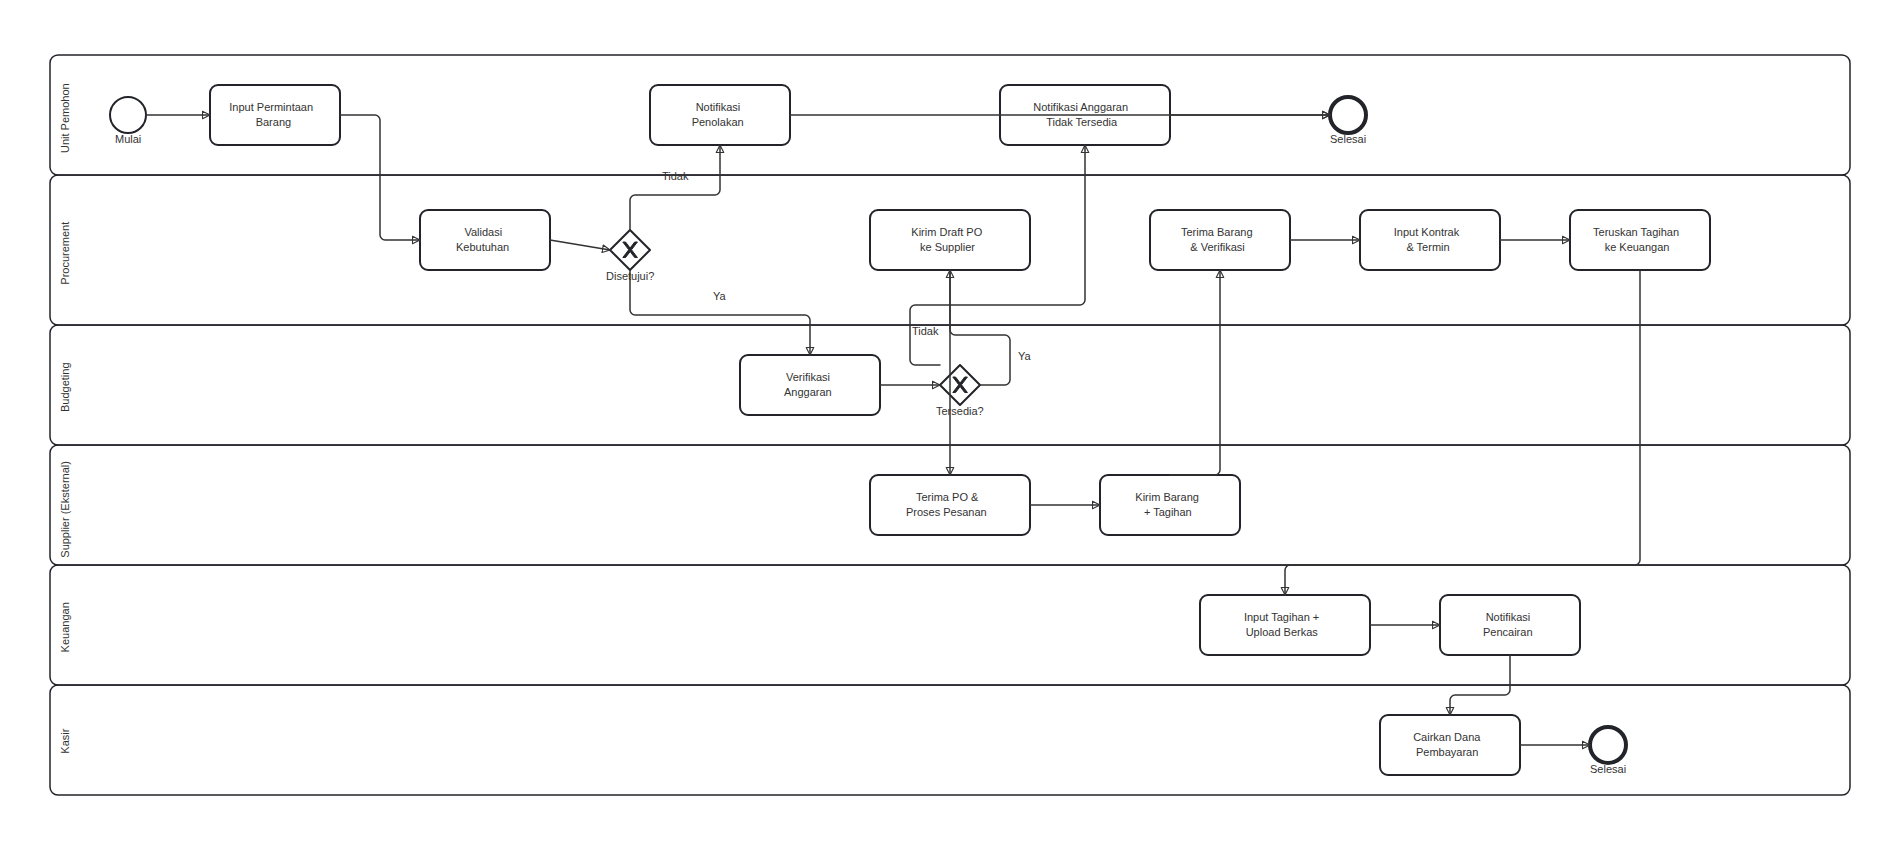
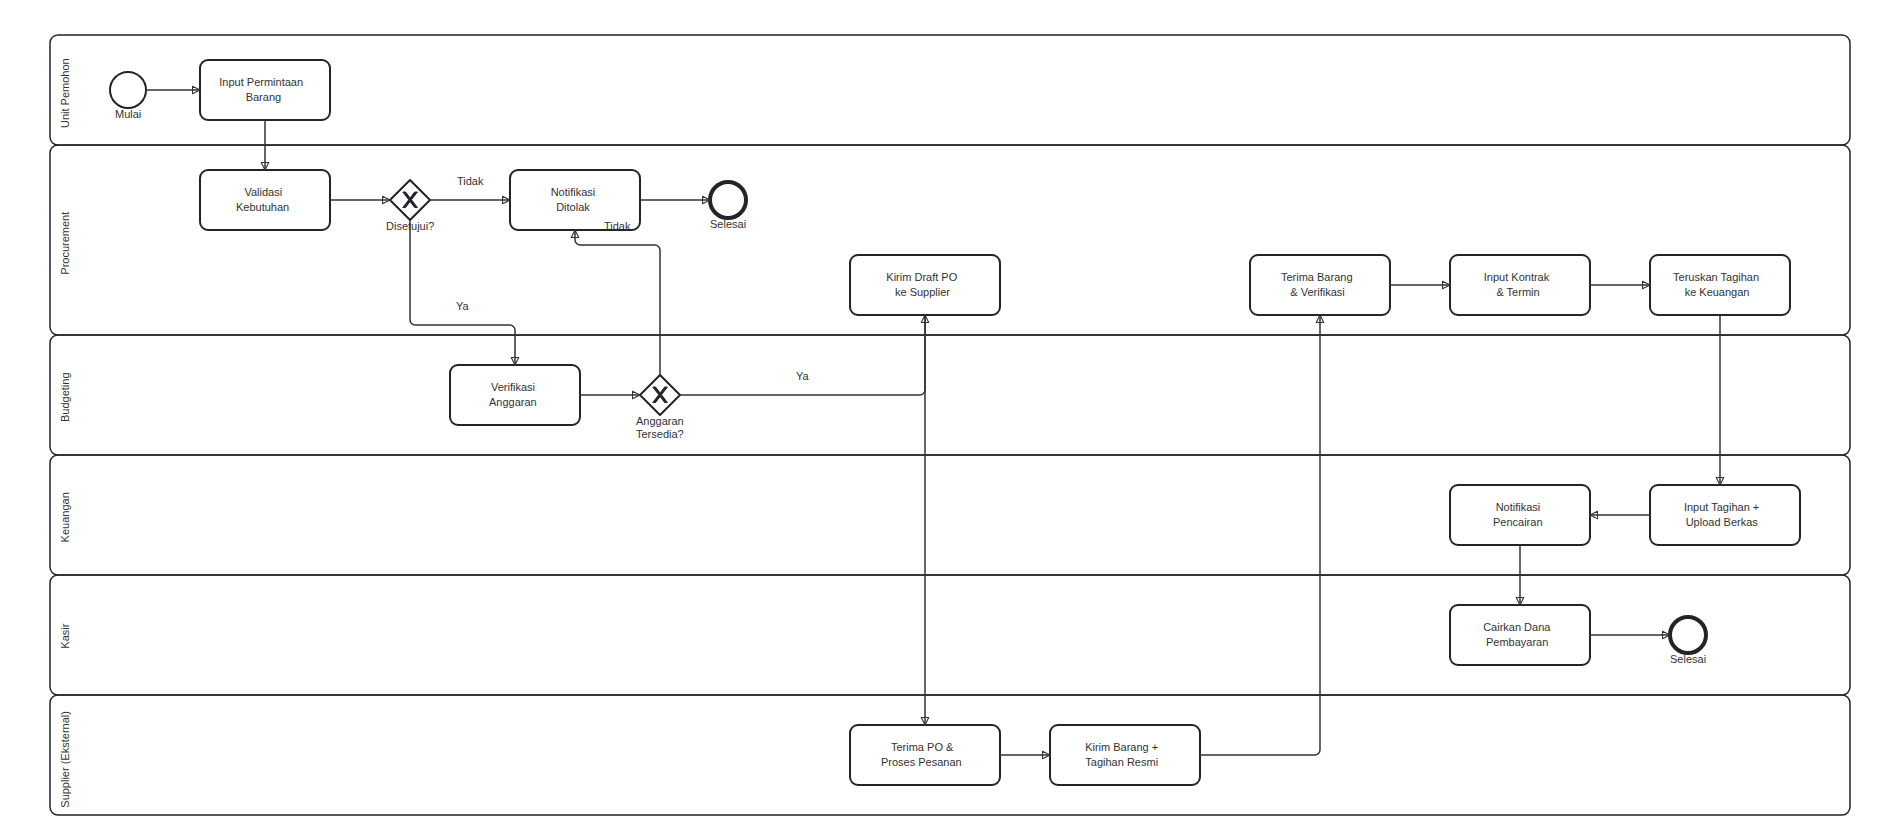
feat: BPMN baru - reorder lanes (Supplier paling bawah), merge Notifikasi Ditolak jadi 1 box, 2 end events

diff --git a/src/app/page.tsx b/src/app/page.tsx
@@ -153,7 +153,7 @@ export default function Home() {
             />
           </div>
           <p className="mt-2 text-sm text-zinc-400 text-center">
-            BPMN Diagram — 6 lane, 2 decision gateway, 14 langkah alur pengadaan
+            BPMN Diagram — 6 lane, 2 decision gateway, alur pengadaan barang
           </p>
 
           <h4 className="mb-4 mt-10 text-sm font-semibold uppercase tracking-wider text-zinc-400">